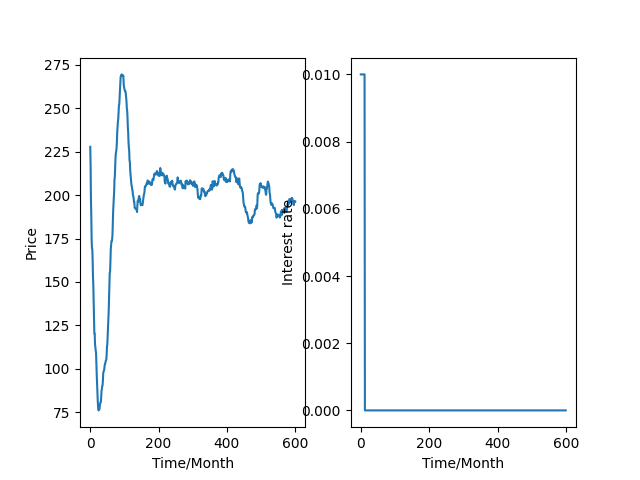
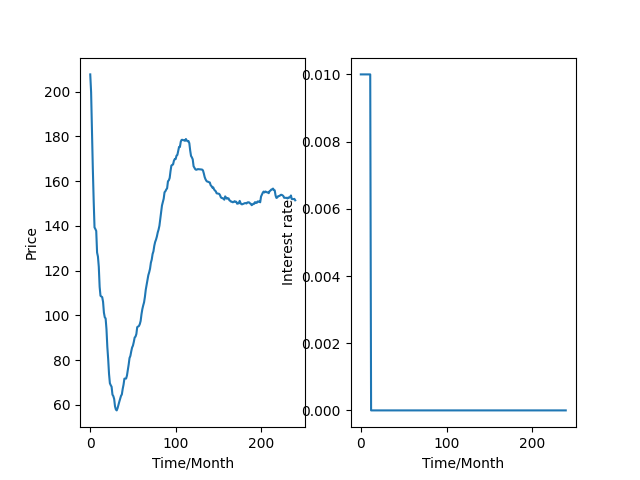
123

diff --git a/main.py b/main.py
@@ -2,6 +2,7 @@ import numpy as np
 import random
 from utils import beta_dist
 from copy import deepcopy
+from config import Configuration
 
 class agent:
     def __init__(self, id:int, pw:float, pc:float, gamma:float, beta:float):
@@ -10,7 +11,7 @@ class agent:
         self.w = 0           # hourly wage
         self.z = 0           # monthly income
         self.pc = pc         # proportion of consumption
-        self.l = None        # work state (0: unemployed, 1: employed)
+        self.l = 0           # work state (0: unemployed, 1: employed)
         self.gamma = gamma
         self.beta = beta
         
@@ -167,49 +168,50 @@ class market:
         phi_bar = (D - G) / max(D, G)
         return phi_bar
 
-def main():
-    random.seed(13)
-    np.random.seed(13)
-    N = 100
-    T = 12*50 # 20 years
+def main(config:Configuration):
     
     M = market()
-    F = firm(A=1, alpha_w=0.05, alpha_p=0.1)
-    B = bank(rn=0.01, pi_t=0.02, un=0.04, alpha_pi=0.5, alpha_u=0.5)
-    agents = [agent(id=i, pw=np.random.uniform(0.3, 0.7), pc=np.random.uniform(0.1, 0.15), gamma=0.5, beta=0.5) for i in range(N)]
+    F = firm(A=config.A, alpha_w=config.alpha_w, alpha_p=config.alpha_p)
+    B = bank(rn=config.rn, pi_t=config.pi_t, un=config.un, alpha_pi=config.alpha_pi, alpha_u=config.alpha_u)
+    
+    agents = [agent(id=i, 
+                    pw=np.random.uniform(0.3, 0.7), 
+                    pc=np.random.uniform(0.05, 0.1), 
+                    gamma=config.gamma, 
+                    beta=config.gamma) for i in range(config.num_agents)]
 
     for a in agents:
-        a.w = beta_dist()
-        B.deposits[a.id] = 0.
+        a.w = beta_dist()      # initial hourly wage
+        B.deposits[a.id] = 0.  # initial deposit
+    F.P = np.mean([a.w for a in agents]) # t=0 initial price
     
-    
+    log = {}
+    log[0] = {'work_state': [a.l for a in agents], 'price': F.P, 'rate': B.rate, 'production': 0}
     
     work_state_history = []
-    price_history = []
     rate_history = []
-    F.P = np.mean([a.w for a in agents]) # t=0 initial price
+    
     price_history.append(F.P)
     
-    for t in range(1, T+1):
+    for t in range(1, config.num_time_steps+1):
         
         work_state = [a.work_decision() for a in agents] # work decision
-        work_state_history.append(work_state) # record work state
-        rate_history.append(B.rate) # record interest rate
         production = F.produce(agents) # production
+        log[t] = {'work_state': work_state, 'rate': B.rate, 'price': F.P, 'production': production}
         # print(t, production, work_state.count(1))
         wages = F.pay_wage(agents)
         taxes = M.taxation(wages)
         wages_after_tax = [w - t for w, t in zip(wages, taxes)]
         for a, w in zip(agents, wages_after_tax):
             a.z = w # update monthly income
-            # print(t, a.id, w, sum(taxes), w + sum(taxes)/N)
-            B.deposit(a.id, w + sum(taxes)/N) # redistribution
+            # print(t, a.id, w, sum(taxes), w + sum(taxes)/config.num_agents)
+            B.deposit(a.id, w + sum(taxes)/config.num_agents) # redistribution
         
         
         ######################
         # random consumption #
         ######################
-        random_list = np.arange(N)
+        random_list = np.arange(config.num_agents)
         np.random.shuffle(random_list)
         tmp_G = deepcopy(F.G)
         for idx in random_list: 
@@ -234,7 +236,7 @@ def main():
         F.price_adjustment(phi_bar)
         
         F.G = tmp_G
-        print(t, tmp_G)
+        # print(t, tmp_G)
         price_history.append(F.P)
         
         #####################
@@ -249,7 +251,13 @@ def main():
 
 if __name__ == '__main__':
     import matplotlib.pyplot as plt
-    price_history, rate_history = main()
+    from config import Configuration
+    
+    config = Configuration()
+    random.seed(config.seed)
+    np.random.seed(config.seed)
+    
+    price_history, rate_history = main(config)
     
     plt.subplot(121)
     plt.plot(price_history)

diff --git a/config.py b/config.py
@@ -1,0 +1,17 @@
+class Configuration:
+    seed = 123
+    num_agents = 200
+    num_time_steps = 12 * 20
+    
+    A = 1.0
+    alpha_w = 0.05
+    alpha_p = 0.10
+    
+    rn = 0.01
+    pi_t = 0.02
+    un = 0.04
+    alpha_pi = 0.5
+    alpha_u = 0.5
+    
+    gamma = 0.5
+    beta = 0.5
